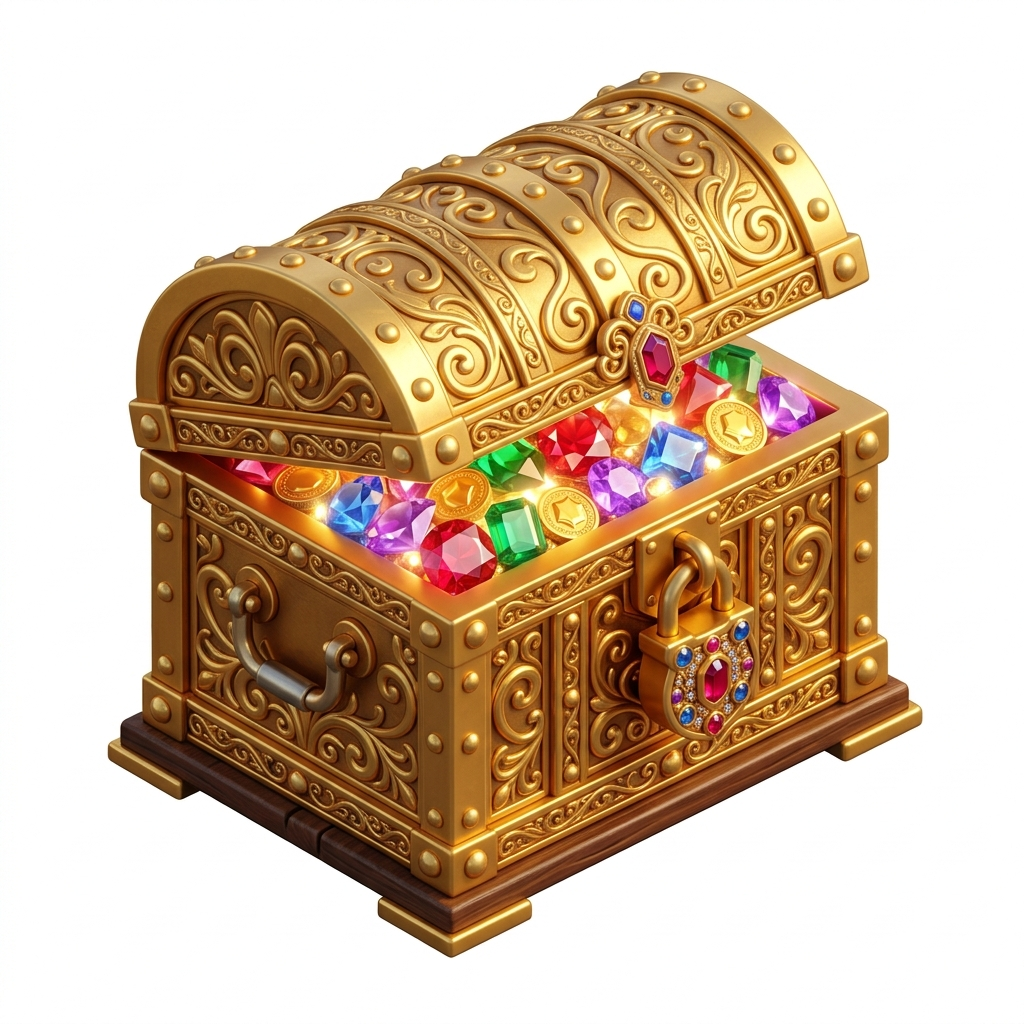
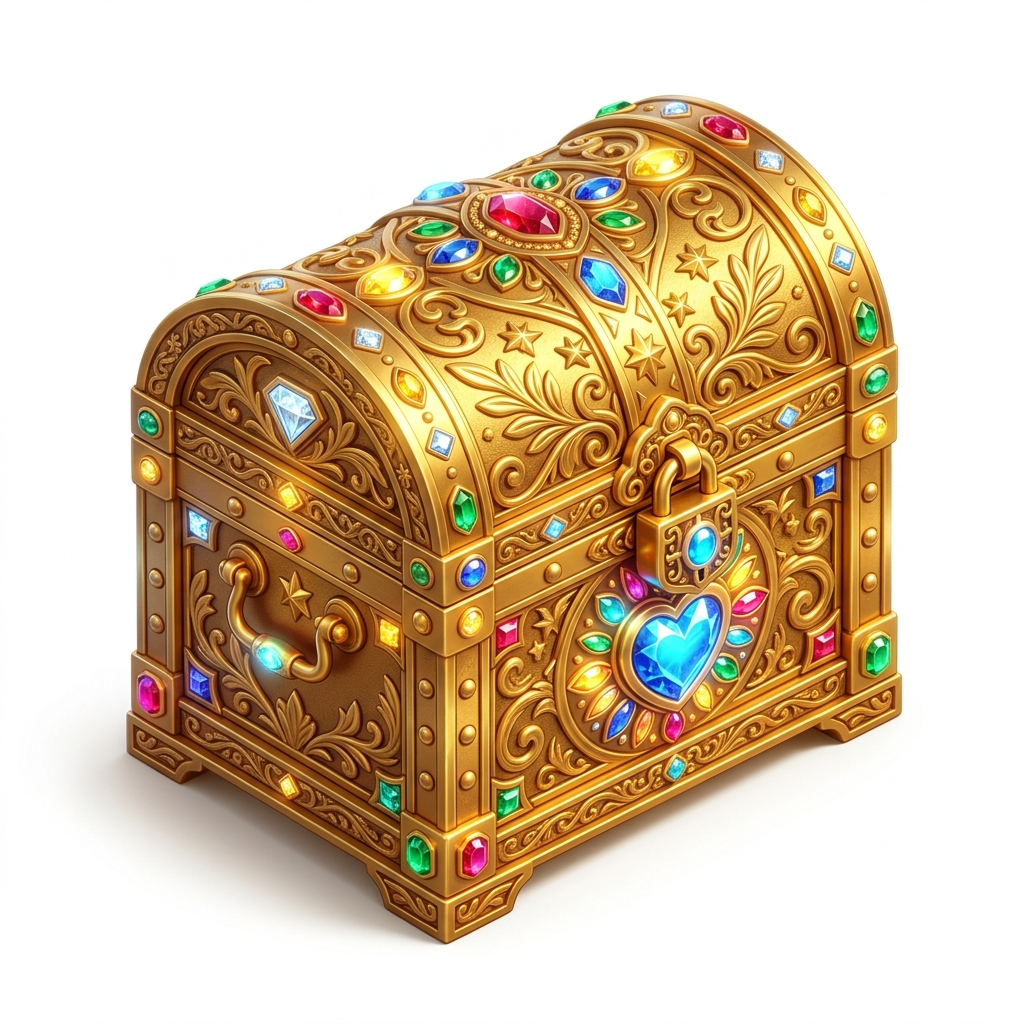
feat: standardize box badges and integrate plain/high-contrast 3D assets

diff --git a/frontend/src/components/HappyBoxesSection.jsx b/frontend/src/components/HappyBoxesSection.jsx
@@ -245,17 +245,21 @@ export function HappyBoxesSection({ address, profile, onUpdate }) {
               position: 'absolute',
               top: 0,
               right: 0,
-              background: box.id === 'legendary' ? '#D97706' : box.id === 'epic' ? '#9333EA' : '#8B5A2B',
+              background: box.id === 'legendary' ? '#D97706' : box.id === 'epic' ? '#9333EA' : '#0000FF',
               color: '#fff',
               fontSize: 8,
               fontWeight: 900,
-              padding: '3px 10px',
+              width: 64,
+              height: 18,
+              display: 'flex',
+              alignItems: 'center',
+              justifyContent: 'center',
               borderBottomLeftRadius: 12,
               textTransform: 'uppercase',
               letterSpacing: '0.5px',
               zIndex: 2
             }}>
-              {box.id === 'legendary' ? '🔥 Jackpot' : box.id === 'epic' ? '✨ Hot' : 'Common'}
+              {box.id === 'legendary' ? 'Jackpot' : box.id === 'epic' ? 'Hot' : 'Common'}
             </div>
 
             <div style={{
